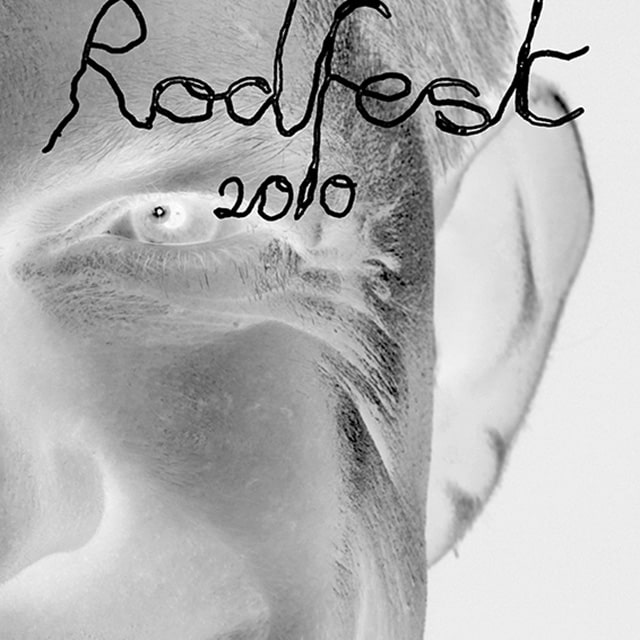
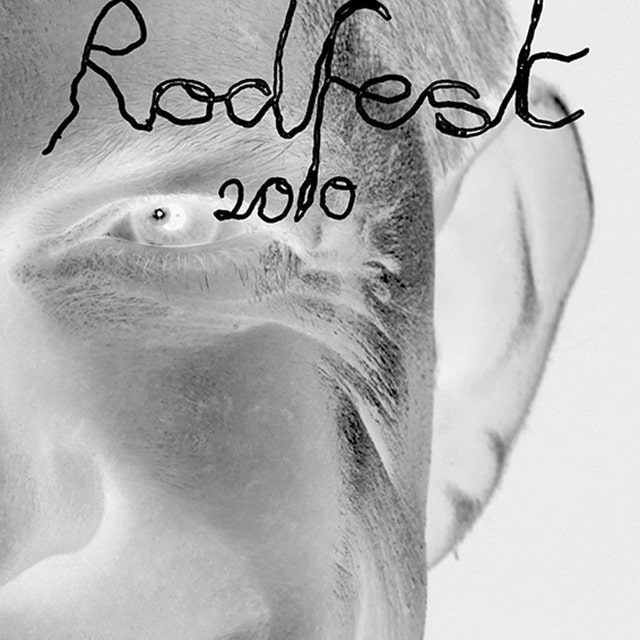
Rod Swap

diff --git a/_site/events/YNK07_1/index.html b/_site/events/YNK07_1/index.html
@@ -84,7 +84,7 @@
         </div>
     </div>
     <div class="e-image">
-        <img src="/images/uploads/YNK07_2.jpg" alt="/images/uploads/YNK07_2.jpg"></img>
+        <img src="/images/uploads/YNK07_1.jpg" alt="/images/uploads/YNK07_1.jpg"></img>
     </div>
     <div class="e-body">
         <div class="e-info"><h4>Rodfest</h4></div>

diff --git a/_site/events/index.html b/_site/events/index.html
@@ -471,7 +471,7 @@
       <div class="event-date"><time datetime="10-09-24">24/09/10</time></div>
       <div class="event-venue">@ Bioskop Indra</div>
       </div>
-      <img src="/images/uploads/YNK07_2.jpg" alt="YNK ≠07_1"></img>
+      <img src="/images/uploads/YNK07_1.jpg" alt="YNK ≠07_1"></img>
     </div></a>
     </li>
   

diff --git a/events/YNK07_1.md b/events/YNK07_1.md
@@ -6,5 +6,5 @@ venue: Bioskop Indra
 venueURL: https://teamtouring.net/bioskop-permata-yogyakarta.html
 with: Senyawa, Das Bucher (AUS), Dylan Martorell (AUS), 3some From Mars & Rod Cooper (AUS)
 info: Rodfest
-flyer: /images/uploads/YNK07_2.jpg
+flyer: /images/uploads/YNK07_1.jpg
 ---
